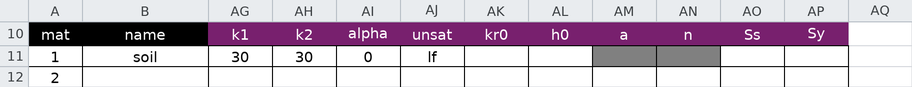
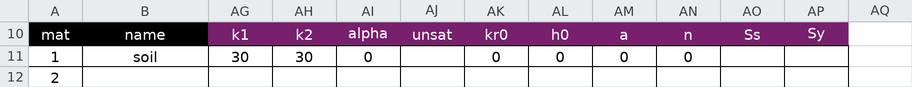
data+docs(seep): the unsat selector goes blank with its parameters
The owner meant all of them: a blank unsat cell loads as lf by default, so
the sheet now carries nothing across the whole unsaturated tail, the page
says so, and the Studio step notes the editor shows the lf default for the
blank cell. Tag still 39.983.

Claude-Session: https://claude.ai/code/session_01XjjT2aBxw8gY7EFdpoUcpj

Changed region(s): [[0.5833, 0.5287, 0.7982, 0.7586], [0.4605, 0.5747, 0.4912, 0.7126], [0.5219, 0.5977, 0.5526, 0.7126]]

diff --git a/docs/tutorials/seep01_sheetpile.md b/docs/tutorials/seep01_sheetpile.md
@@ -319,9 +319,9 @@ from the table above into the first row of the table, row 11:
 `k1` is the major principal conductivity and `k2` the minor one, with `alpha`
 the rotation of those principal directions from the x-axis in degrees.
 Setting `k1 = k2 = 30` makes the soil isotropic, and at that point `alpha`
-means nothing and stays `0`. Every column after `unsat` stays blank: they
-belong to the unsaturated and transient analyses of the next tutorials, and
-a confined steady problem reads none of them.
+means nothing and stays `0`. The `unsat` column and every column after it
+stay blank: they belong to the unsaturated and transient analyses of the
+next tutorials, and a confined steady problem reads none of them.
 [SEEP-2](seep02_johnson_dam.md) is where they come into play.
 
 Everything to the left of the Seepage band — unit weight, strength option,
@@ -413,9 +413,10 @@ Press **Add row**, and fill it:
 1. **name** = `soil`.
 2. **k1 (m/yr)** = `30` and **k2 (m/yr)** = `30`.
 3. **alpha** = `0`.
-4. Leave **unsat** and everything after it alone. Those columns belong to
-   the unsaturated and transient analyses of the next tutorials; a confined
-   problem evaluates none of them.
+4. Leave **unsat** and everything after it alone — the editor shows the
+   `lf` default for the blank cell. Those columns belong to the unsaturated
+   and transient analyses of the next tutorials; a confined problem
+   evaluates none of them.
 
 ![The materials editor with the Seepage columns showing](images/seep01_studio_materials.png)
 
